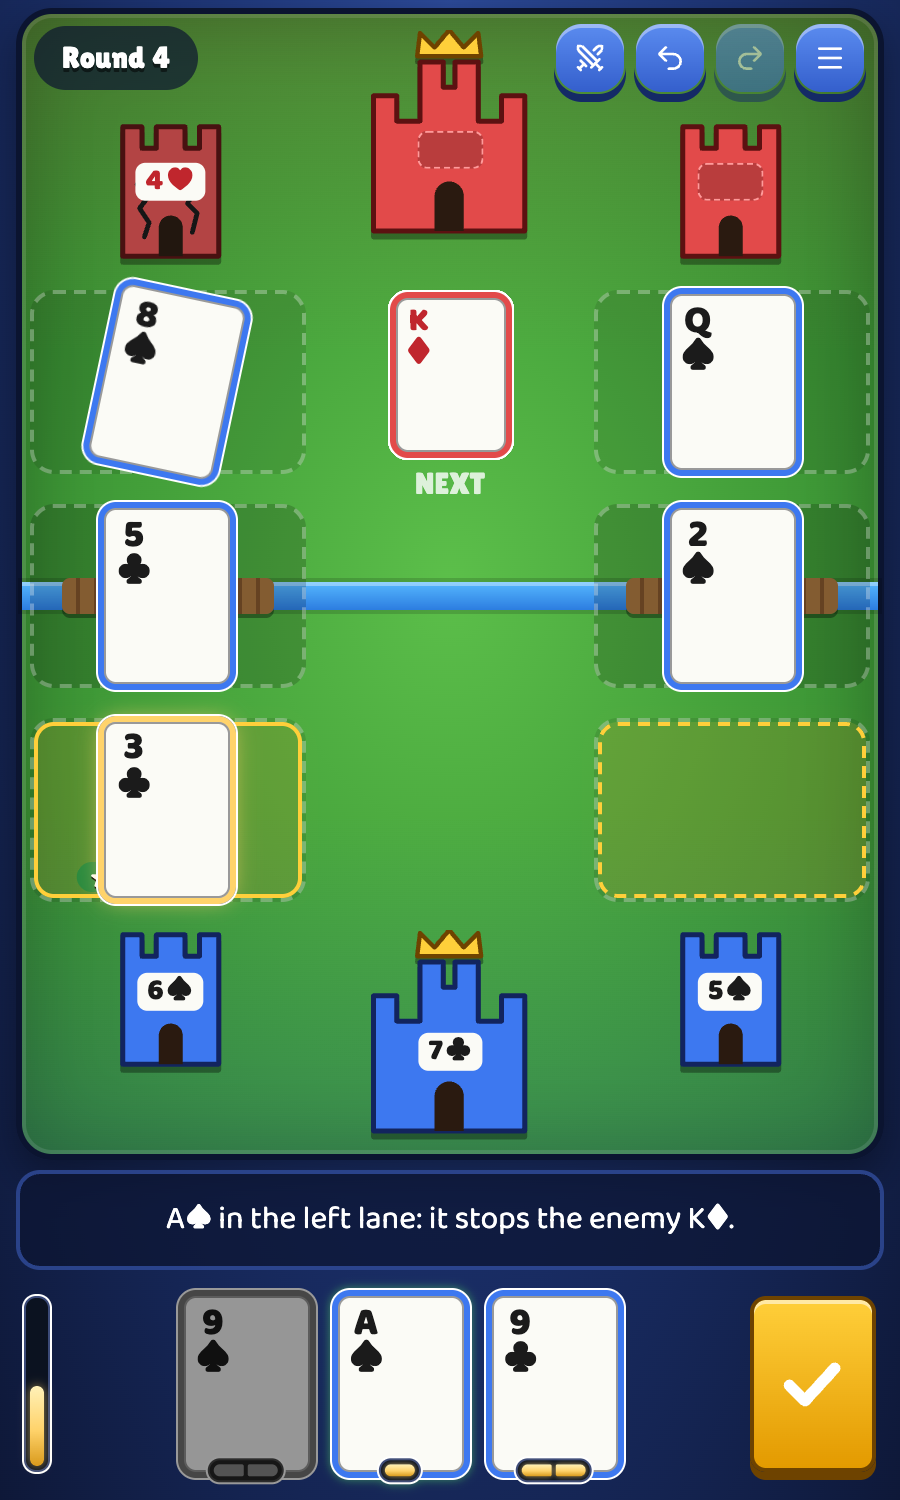
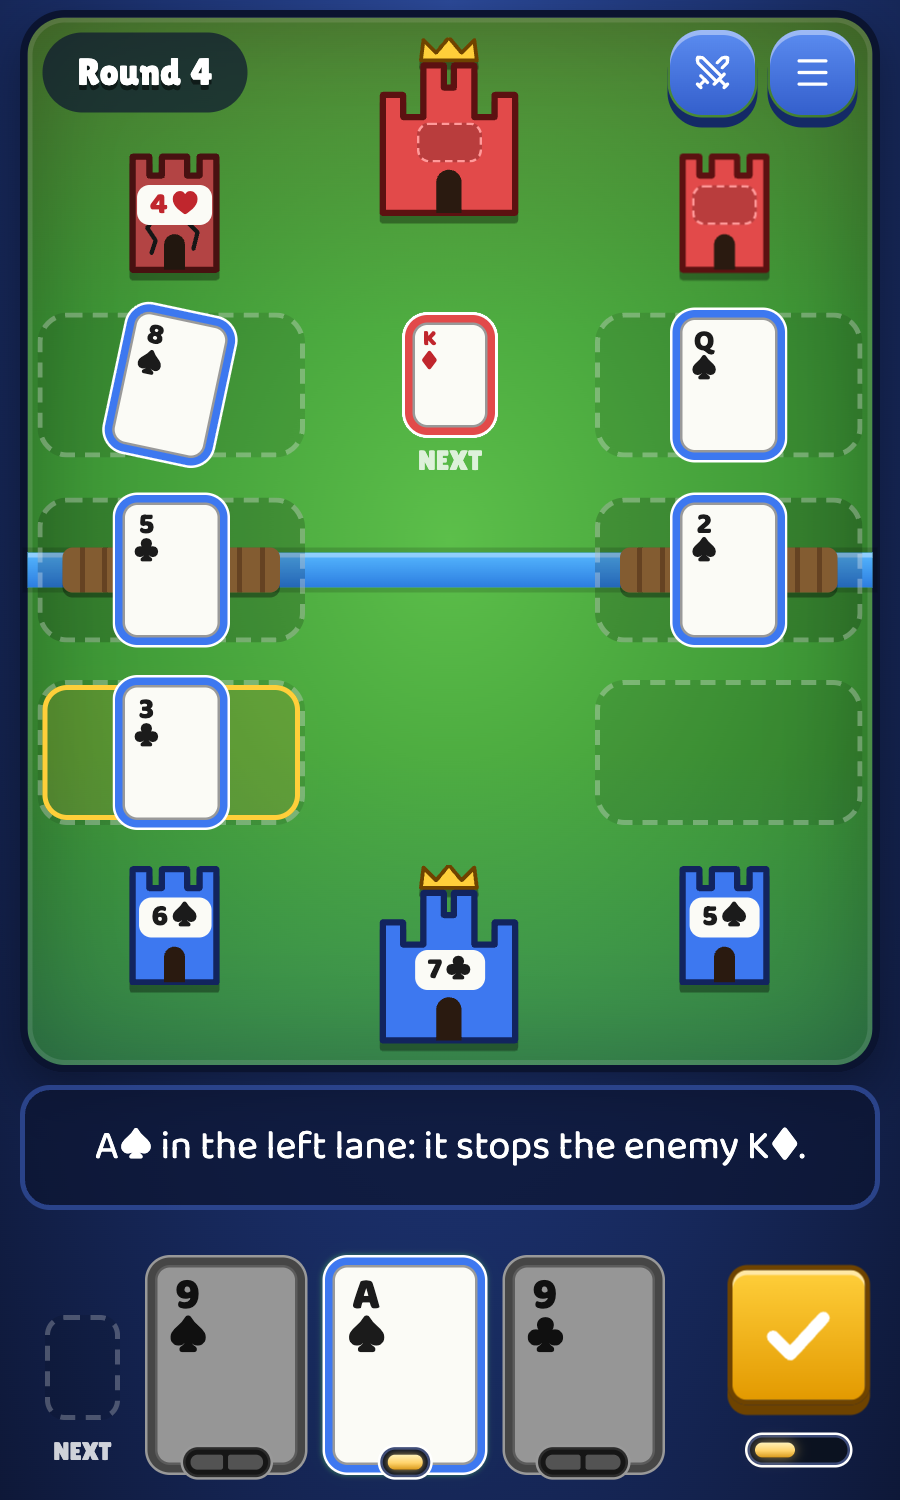
Screenshots, social image and itch cover show the current game: bigger hand with the turn bar under Done, the new title tagline

diff --git a/README.md b/README.md
@@ -7,9 +7,9 @@
 Free, no sign-up, works on phones and desktops.
 
 <p align="center">
-  <img src="docs/screenshots/arena.png?v=3" alt="Suitkeep on screen in round 4: red enemy castles at the top, the left one cracked with its 4♥ showing, your black cards in both lanes of 3 slots, the enemy's face-up next card K♦ between the lanes, your blue castles with their tower cards, and your hand of 3 with the turn bar on its left and the Done button on its right" width="300" />
+  <img src="docs/screenshots/arena.png?v=4" alt="Suitkeep on screen in round 4: red enemy castles at the top, the left one cracked with its 4♥ showing, your black cards in both lanes of 3 slots, the enemy's face-up next card K♦ between the lanes, your blue castles with their tower cards, and below them your next card on the left, your hand of 3 big cards, and the Done button with the turn bar under it" width="300" />
   &nbsp;
-  <img src="docs/screenshots/title.png?v=3" alt="Suitkeep title screen with a gold crown logo and the Play, Play with real cards and How to play buttons" width="520" />
+  <img src="docs/screenshots/title.png?v=4" alt="Suitkeep title screen with a gold crown logo and the tagline "A solo card battle, one deck" and the Play, Play with real cards and How to play buttons" width="520" />
 </p>
 
 ## Two ways to play
@@ -46,9 +46,9 @@ Full rules: [RULEBOOK.md](RULEBOOK.md) · Printable rulebook (3 pages, A4): [pri
 - **Balanced by simulation and real games:** thousands of simulated games, checked against a first-time player's playtests, tuned the rules. Games last about 8 rounds. A first-time player who thinks wins a bit more than half, a careless one about 4 in 10, and decks with 4 to 6 big cards win about as often: skill is in the playing. One deal per game, as at the table.
 
 <p align="center">
-  <img src="docs/screenshots/deck.png?v=3" alt="Suitkeep deck building screen: the 8 deck cards on top, each with a one- or two-dot turn badge, the three towers of one card each under blue castles, and the big/small meter with Start the game at the bottom" width="420" />
+  <img src="docs/screenshots/deck.png?v=4" alt="Suitkeep deck building screen: the 8 deck cards on top, each with a one- or two-dot turn badge, the three towers of one card each under blue castles, and the big/small meter with Start the game at the bottom" width="420" />
   &nbsp;
-  <img src="docs/screenshots/real-cards-setup.png?v=3" alt="Suitkeep real-cards setup, first step: split the deck by colour, black cards for you and red cards for the enemy" width="420" />
+  <img src="docs/screenshots/real-cards-setup.png?v=4" alt="Suitkeep real-cards setup, first step: split the deck by colour, black cards for you and red cards for the enemy" width="420" />
 </p>
 
 ## Run it locally
